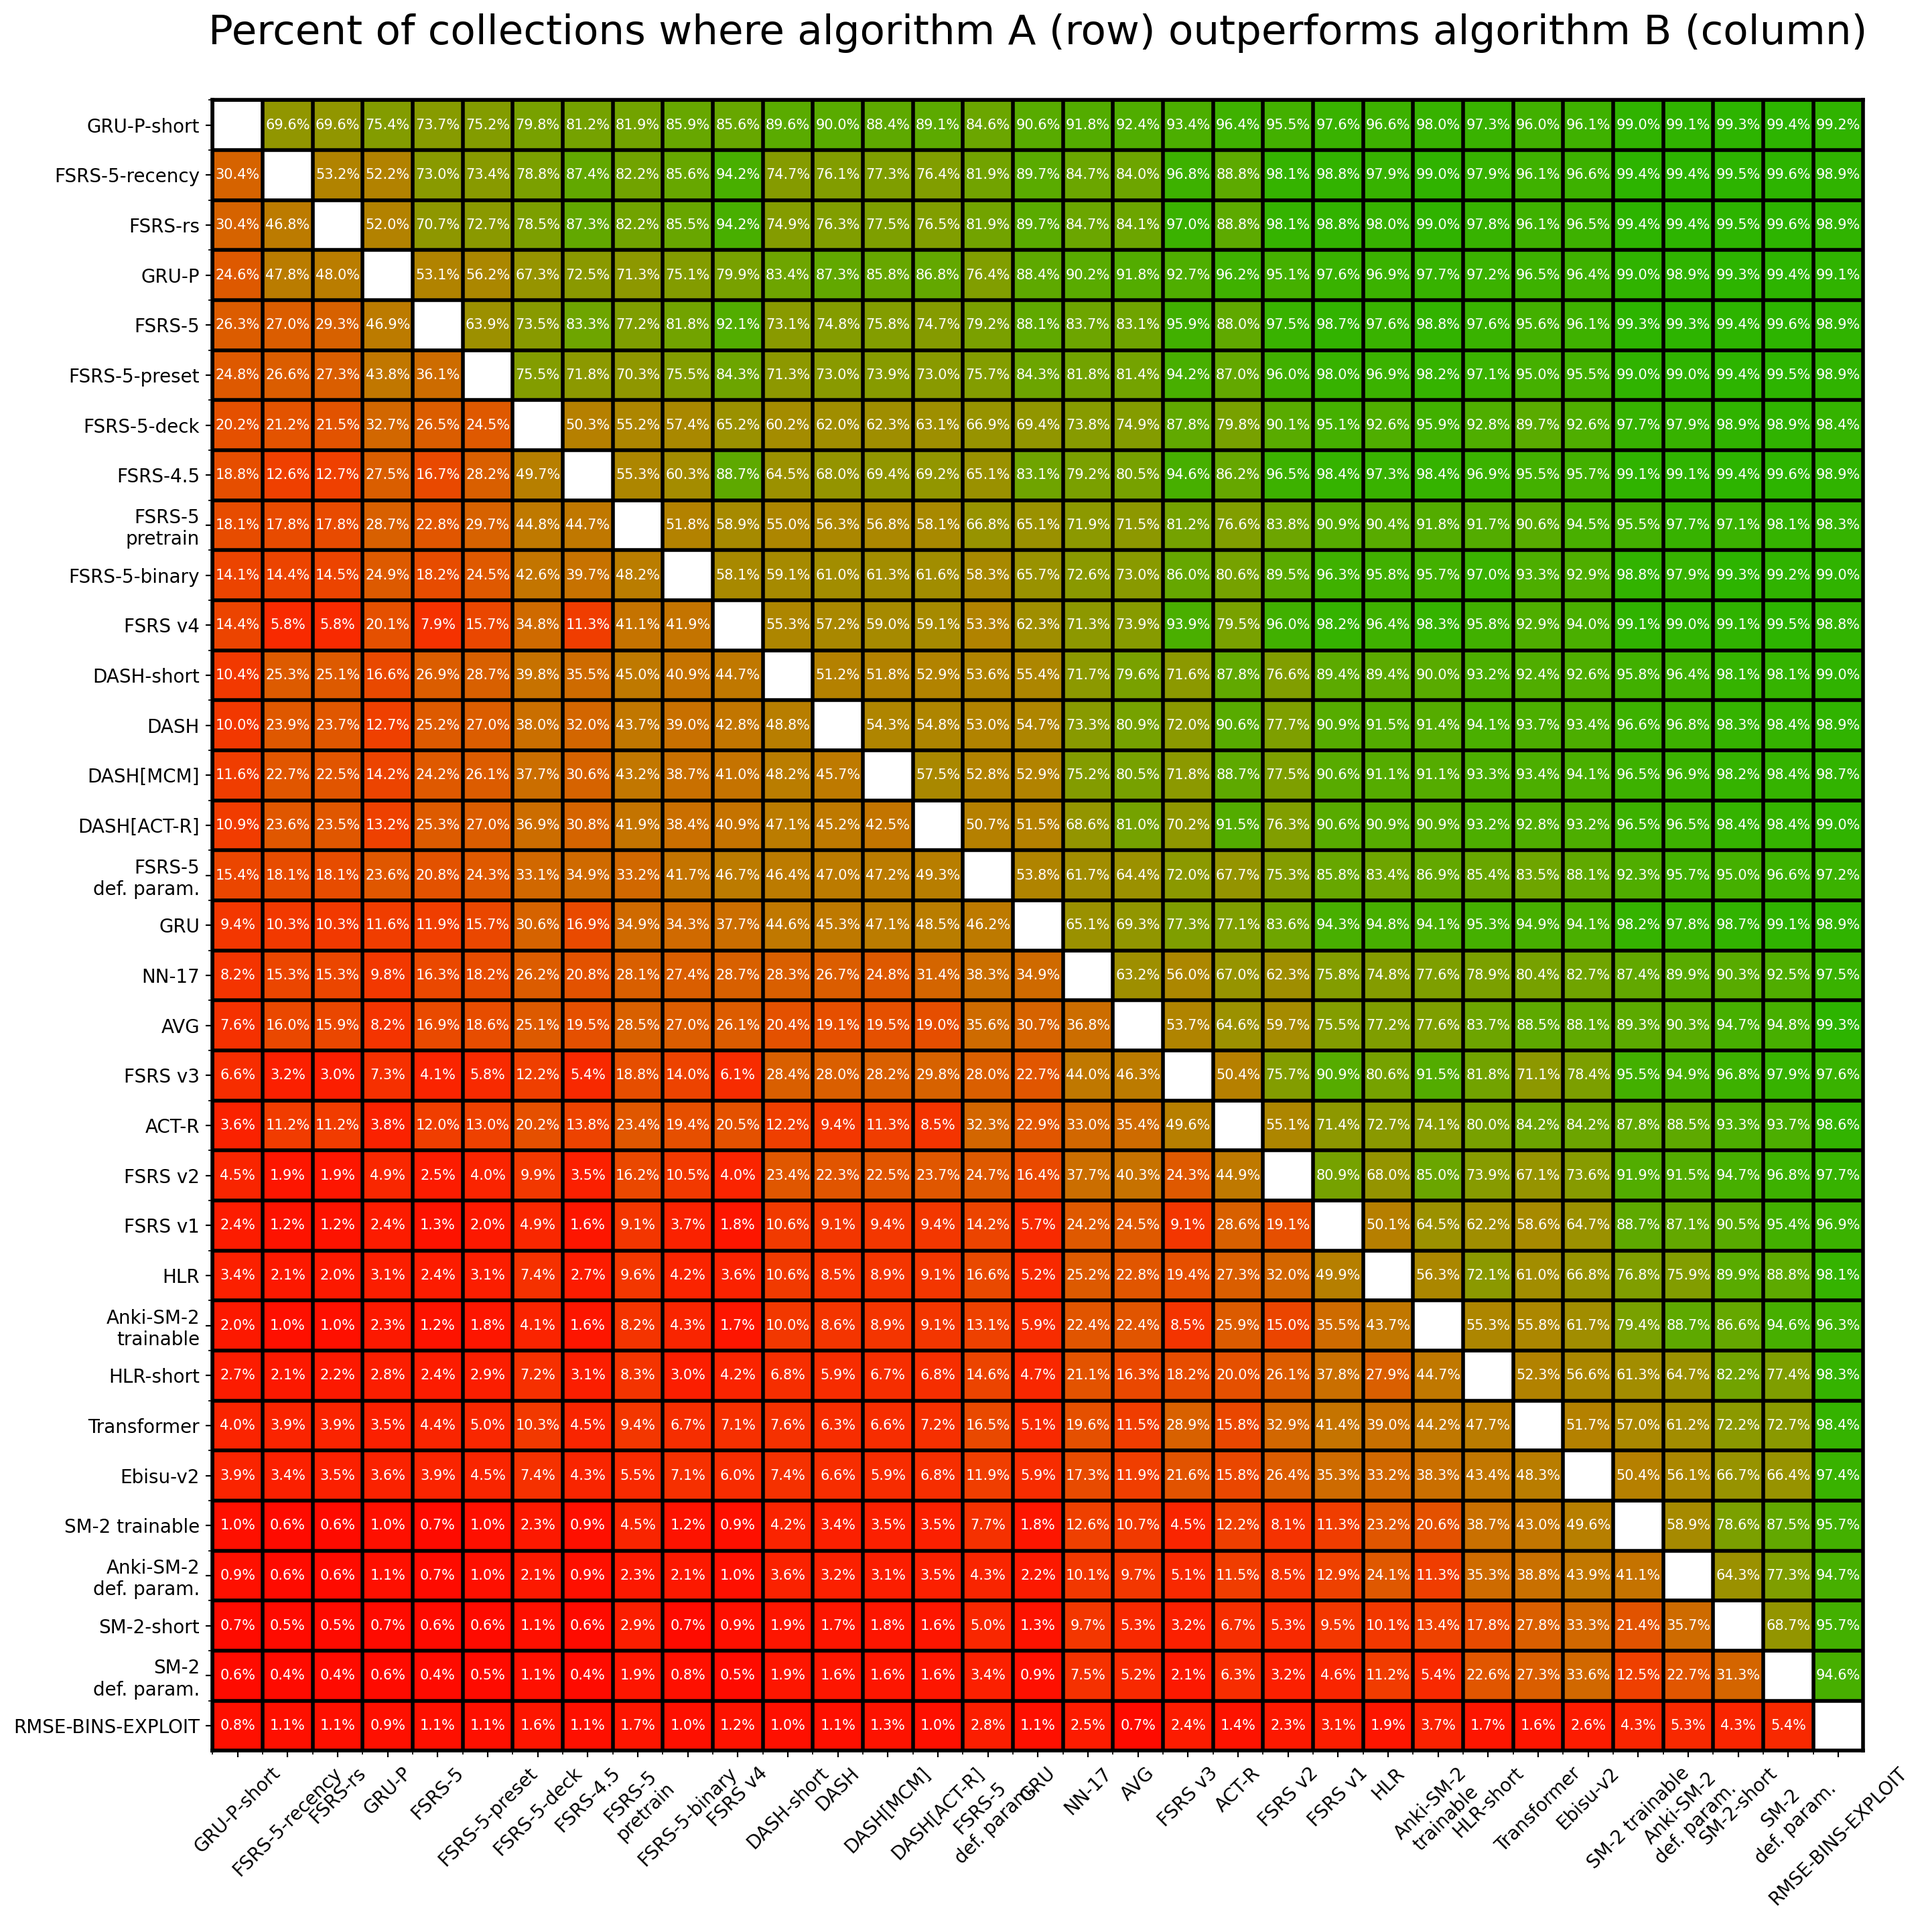
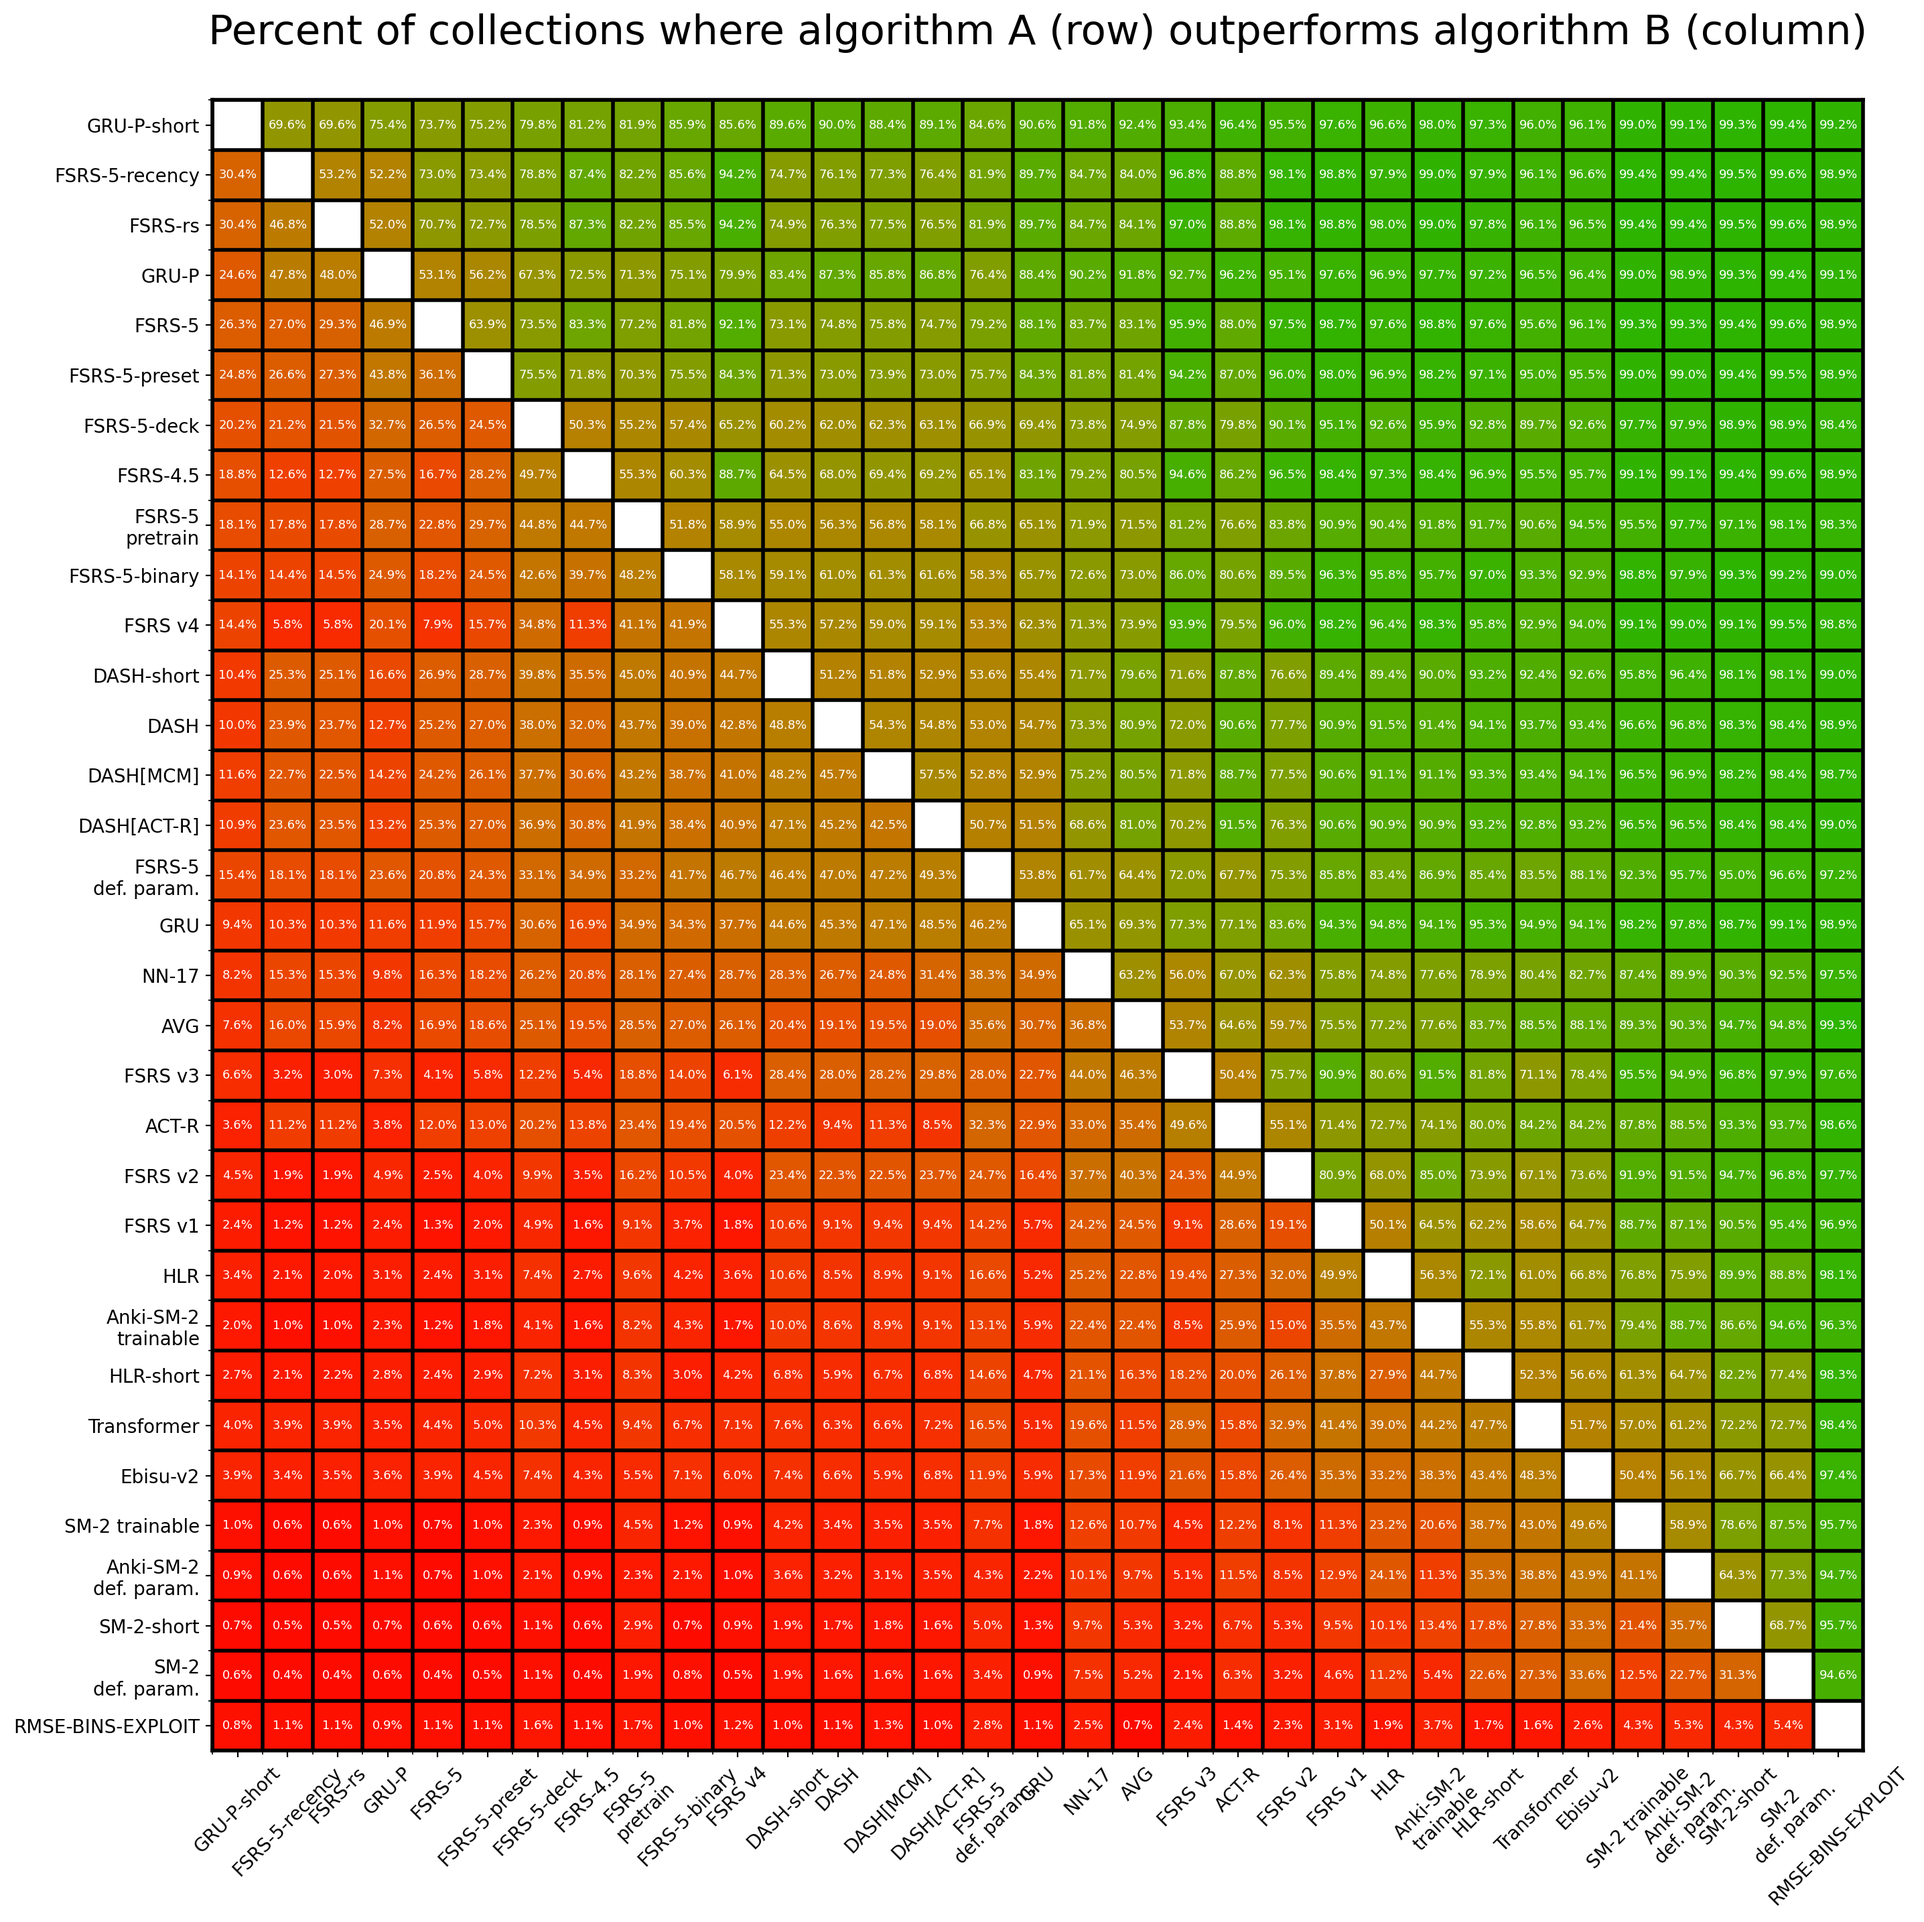
Updated the superiority percentages (#155)

diff --git a/superiority.py b/superiority.py
@@ -196,7 +196,7 @@ if __name__ == "__main__":
                     ha="center",
                     va="center",
                     color="white",
-                    fontsize=7.5,
+                    fontsize=6.5,
                 )
 
     ax.set_xticks(np.arange(n), labels=models, fontsize=10, rotation=45)

diff --git a/README.md b/README.md
@@ -152,11 +152,11 @@ Unweighted averages are more representative of "average case" performance. In re
 
 ### Superiority
 
-The metrics presented above can be difficult to interpret. In order to make it easier to understand how algorithms perform relative to each other, the image below shows the percentage of users for whom algorithm A (row) has a lower Log Loss than algorithm B (column). For example, GRU-P-short has a 95.9% superiority over the Transformer, meaning that for 95.9% of all collections in this benchmark, GRU-P-short can estimate the probability of recall more accurately than the Transformer. This is based on 9,999 collections.
+The metrics presented above can be difficult to interpret. In order to make it easier to understand how algorithms perform relative to each other, the image below shows the percentage of users for whom algorithm A (row) has a lower Log Loss than algorithm B (column). For example, GRU-P-short has a 96.0% superiority over the Transformer, meaning that for 96.0% of all collections in this benchmark, GRU-P-short can estimate the probability of recall more accurately than the Transformer. This is based on 9,999 collections.
 
 ![Superiority, 9999](./plots/Superiority-9999.png)
 
-You may have noticed that FSRS-5 has a 98.1% superiority over Anki's variant of SM-2, meaning that for 98.1% of users, the Log Loss with FSRS-5 will be lower than with Anki's variant of SM-2. But please remember that SM-2 wasn't designed to predict probabilities, and the only reason it does so in this benchmark is because extra formulae have been added.
+You may have noticed that FSRS-5 has a 99.3% superiority over Anki's variant of SM-2, meaning that for 99.3% of users, the Log Loss with FSRS-5 will be lower than with Anki's variant of SM-2. But please remember that SM-2 wasn't designed to predict probabilities, and the only reason it does so in this benchmark is because extra formulae have been added.
 
 ### Statistical significance
 
